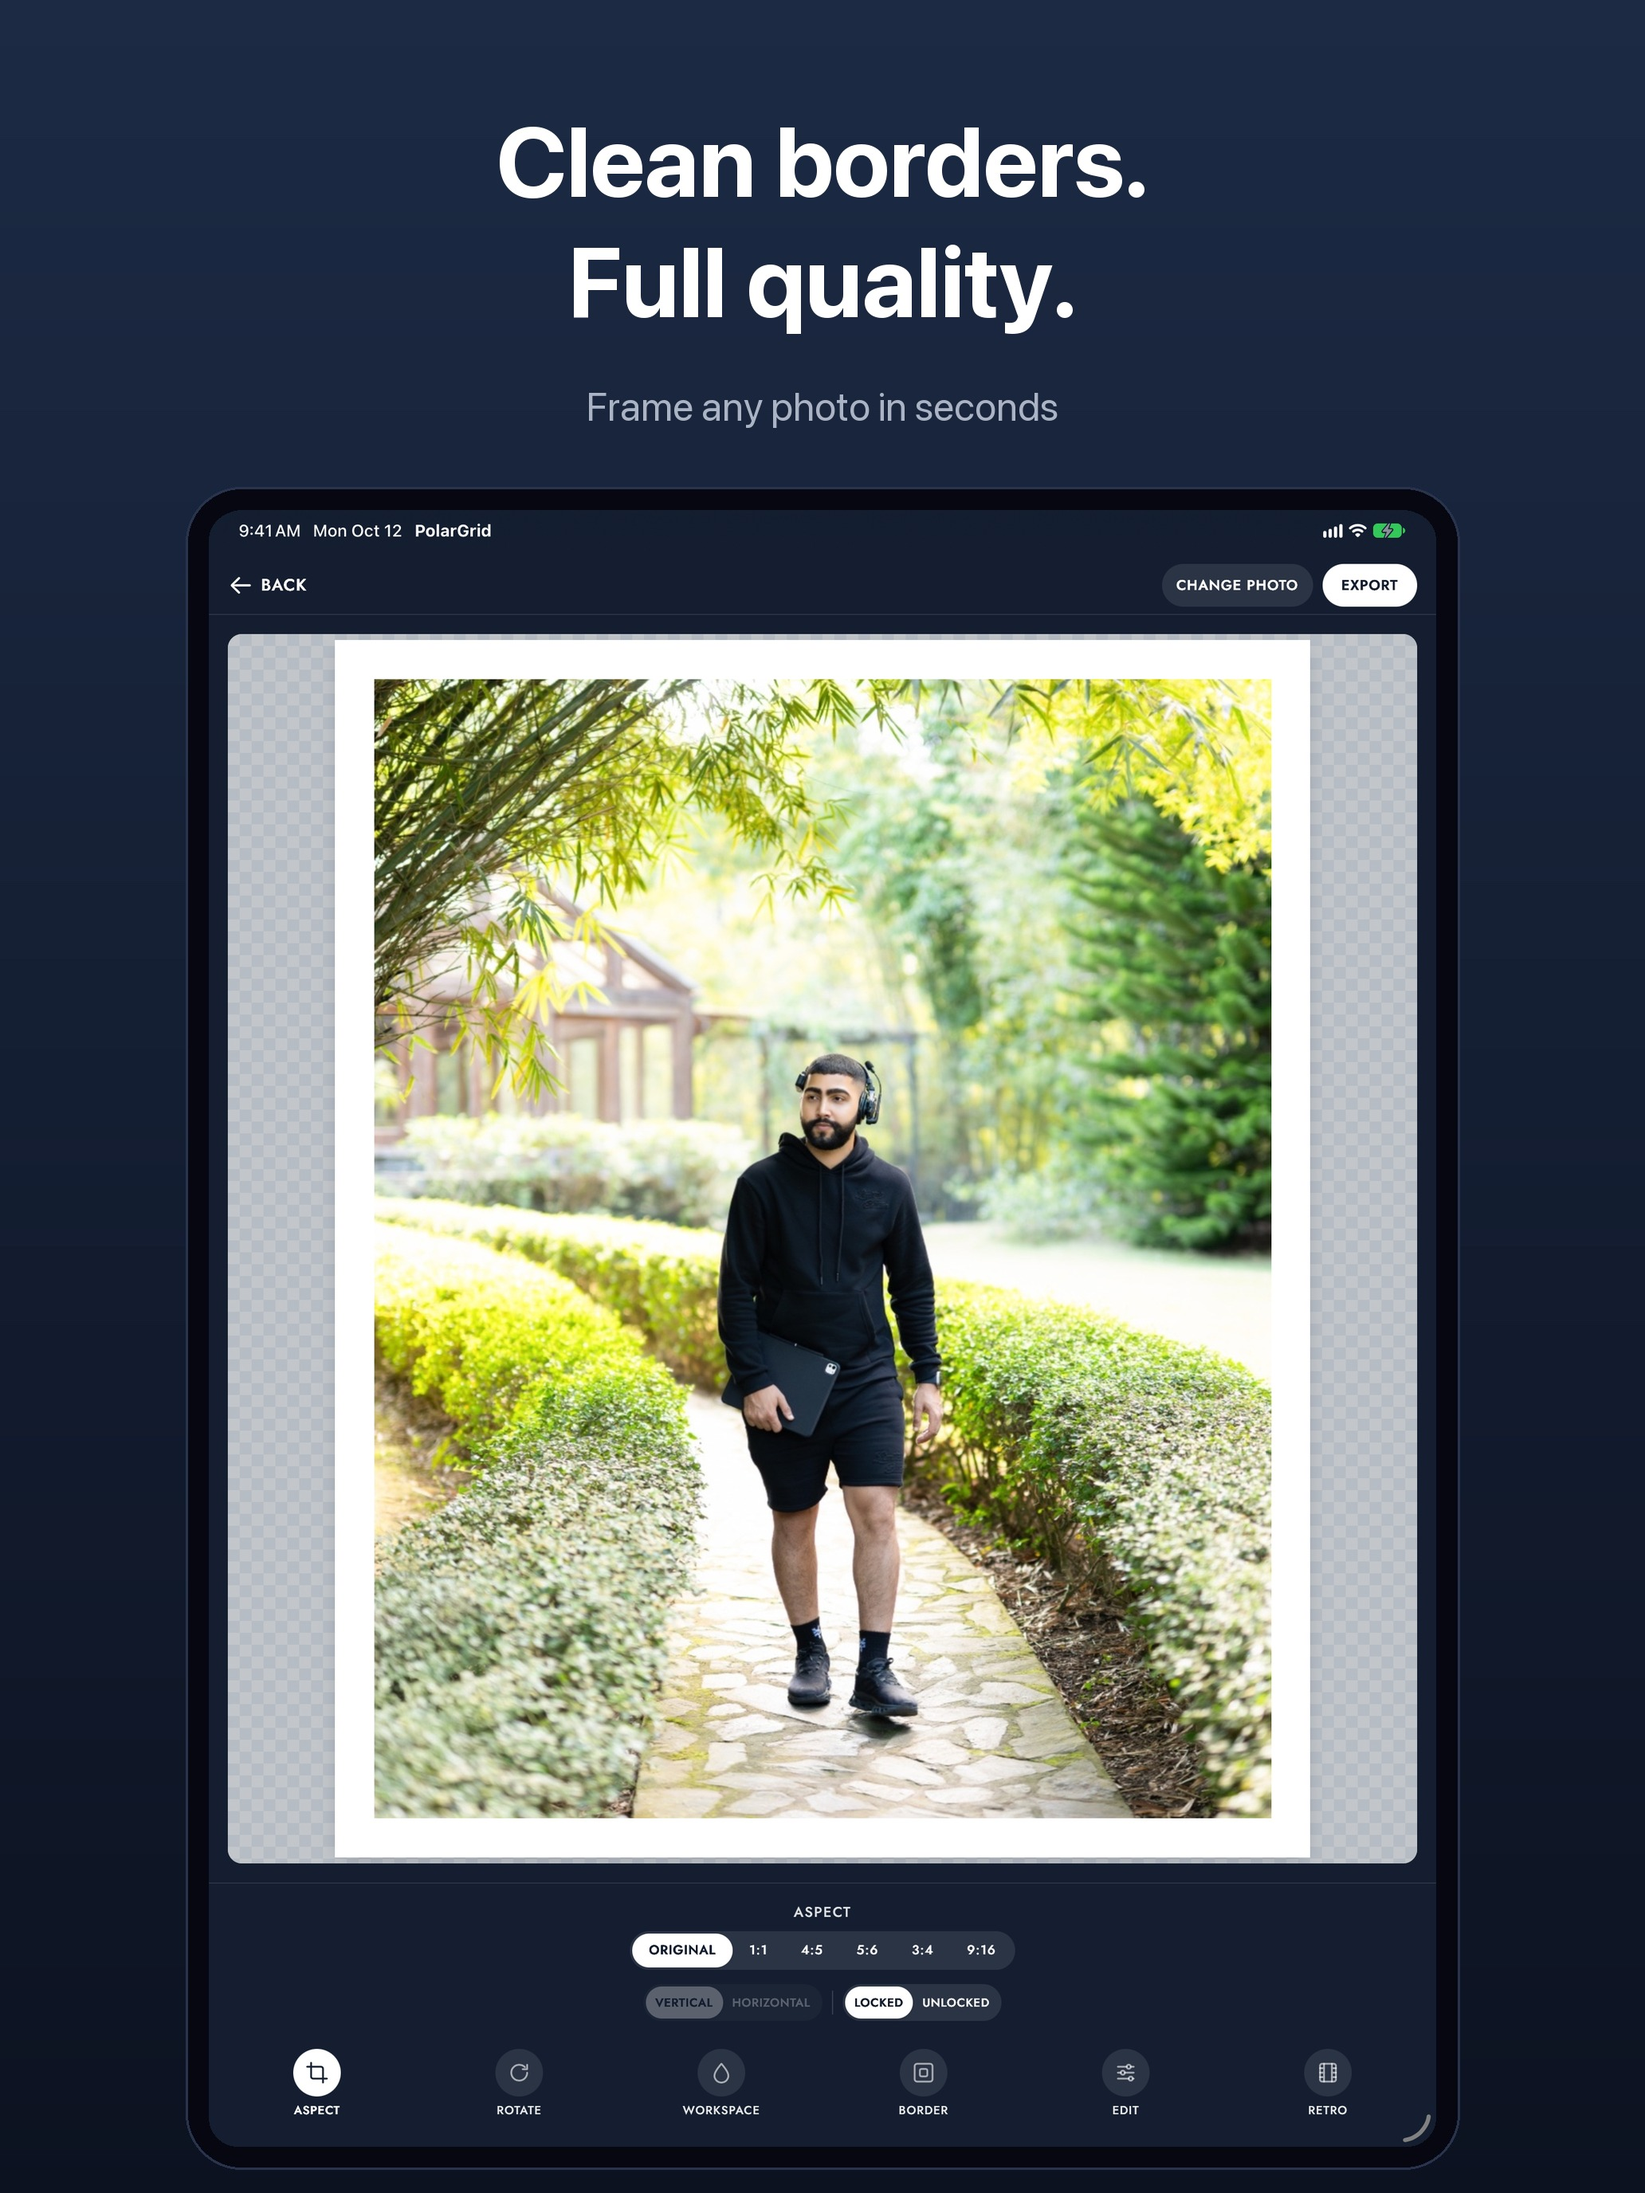
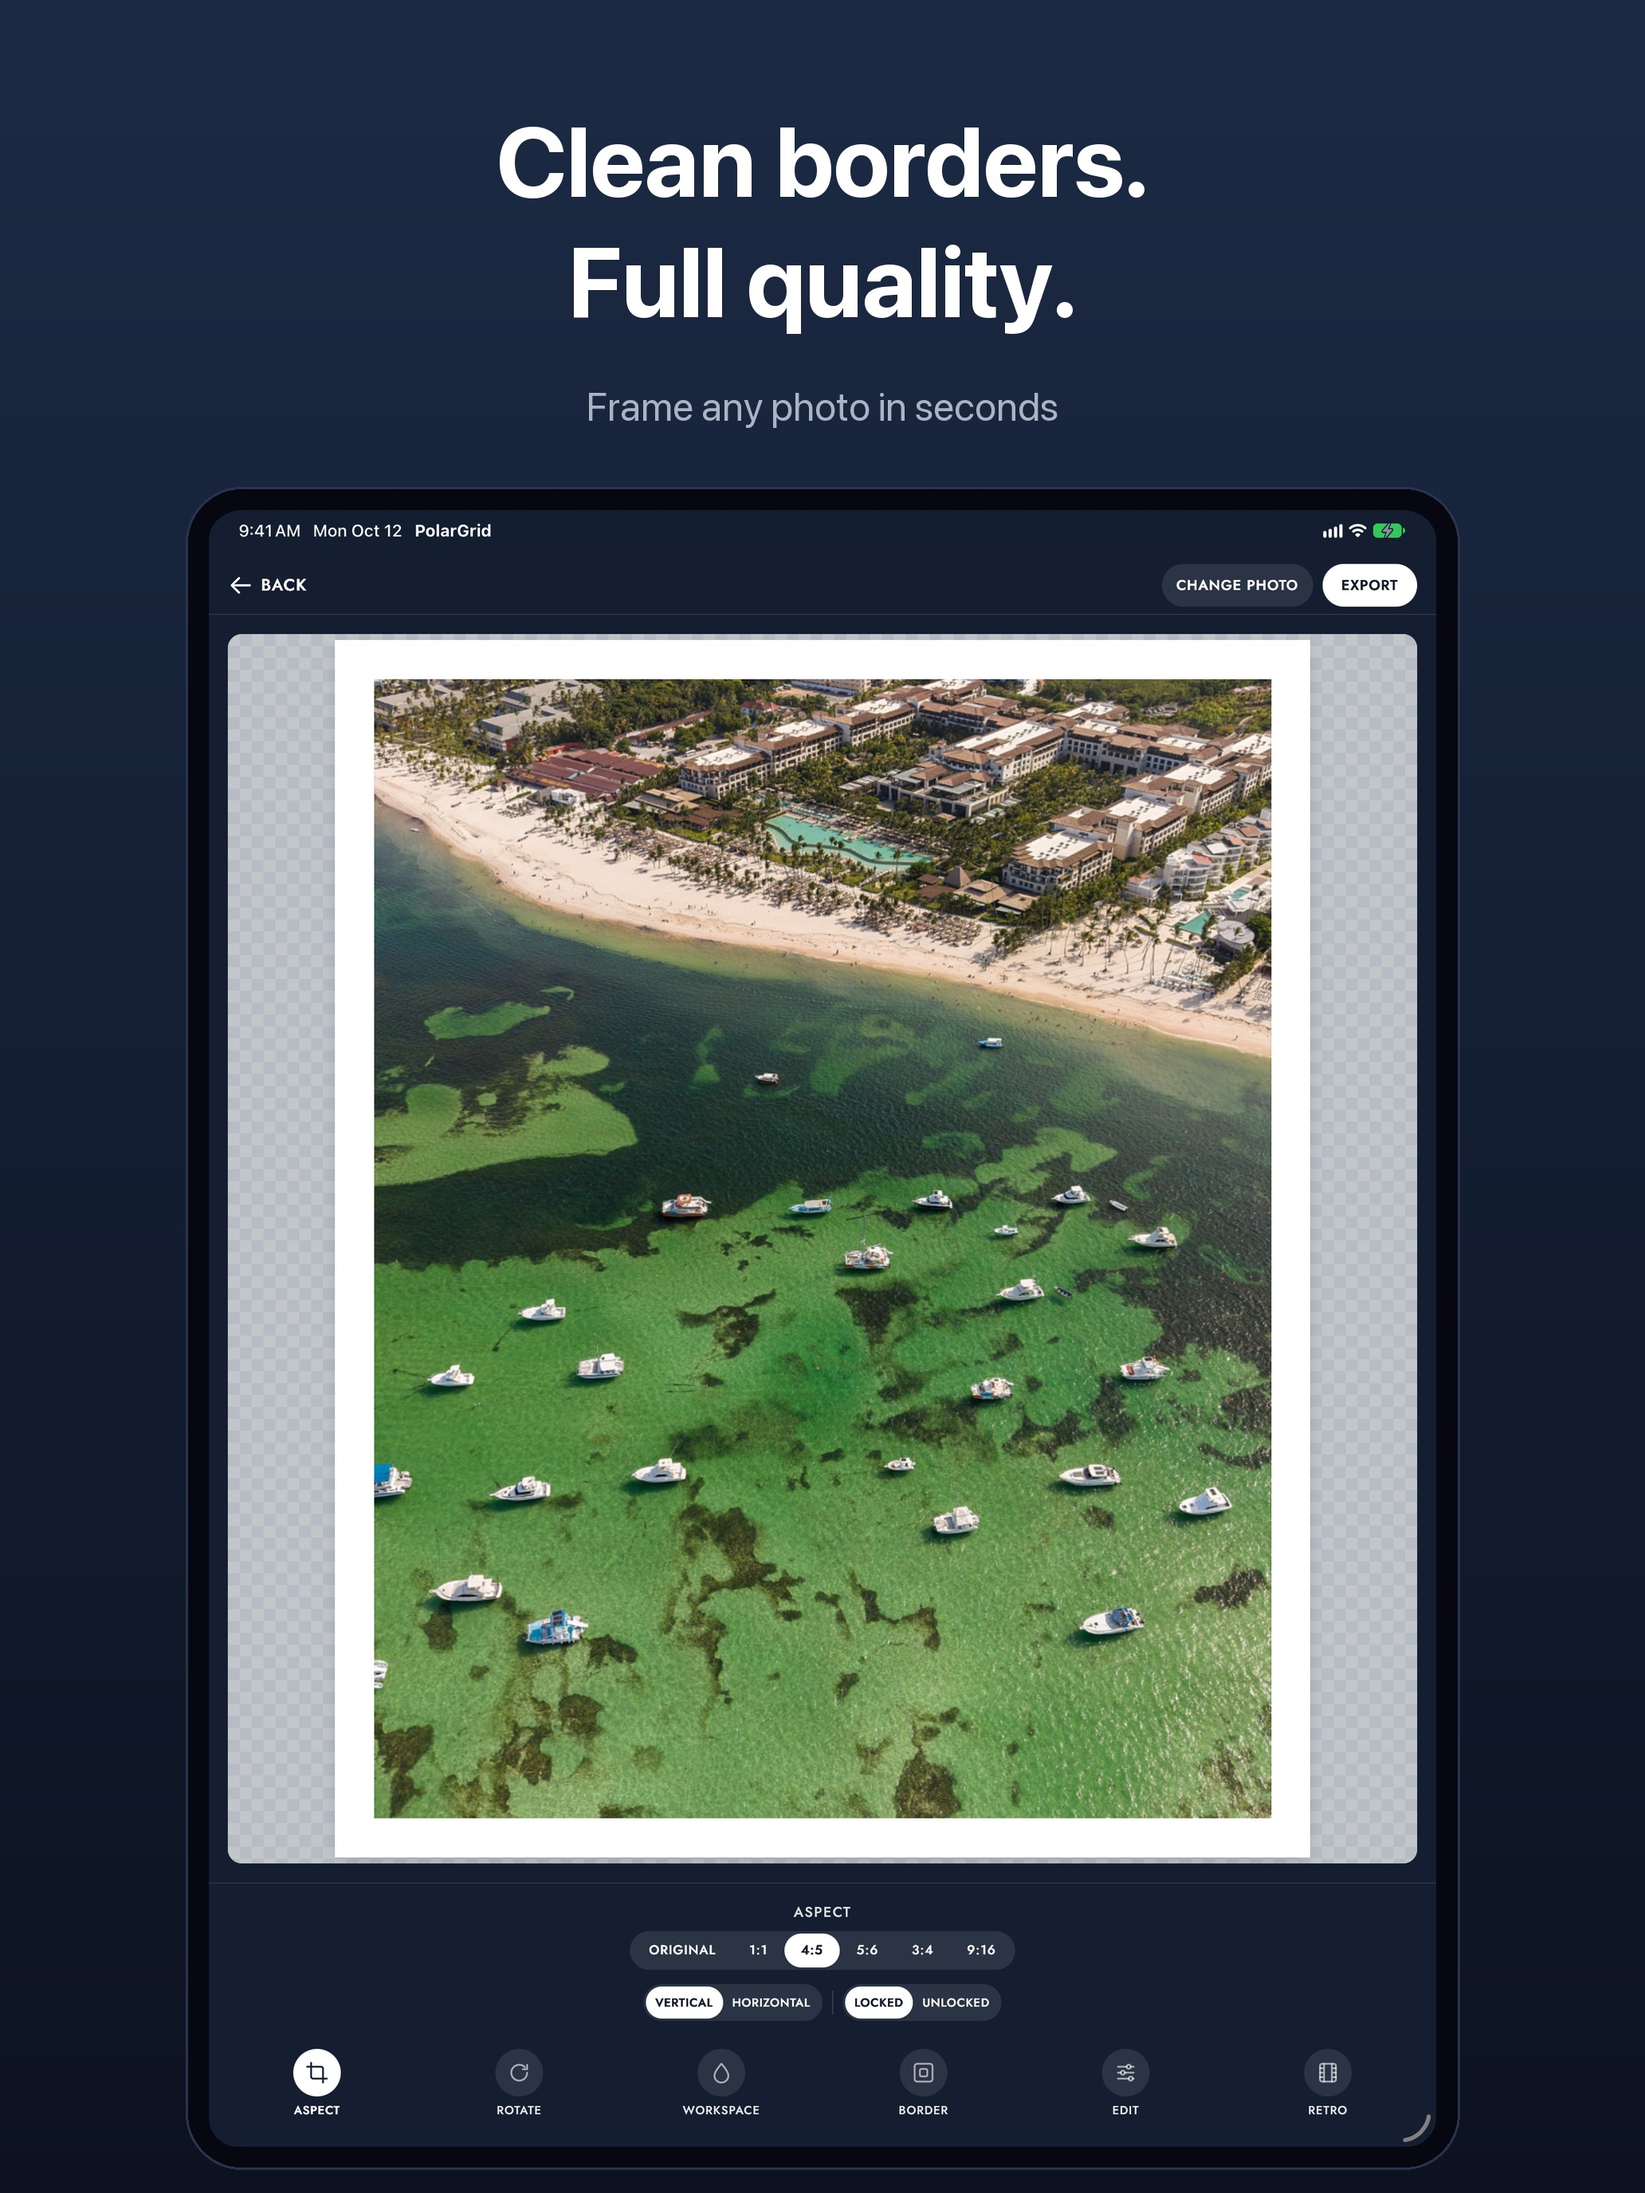
Tour and store screenshots use the developer's own landscape photos
Aerial and coastal shots (resort, island, cliff, waves, bay, sandbar)
replace the portraits, so the app reads as being for any kind of photo.
The resort frames 4:5 in the border screenshots and the finished-Story
screenshot keeps the photo's own shape, as the app does.

Changed region(s): [[0.2171, 0.3125, 0.7752, 0.8438], [0.3721, 0.875, 0.5271, 0.9375]]

diff --git a/src/components/WelcomeTour.tsx b/src/components/WelcomeTour.tsx
@@ -26,9 +26,9 @@ function Print({ name, className = '', style, pad = '5%' }: { name: string; clas
 /** Logo over a fan of prints that drift gently. */
 function WelcomeArt() {
   const prints = [
-    { name: 'evening', rotate: -14, x: '-58%', delay: '0s' },
-    { name: 'decor-hall', rotate: 13, x: '58%', delay: '-1.6s' },
-    { name: 'garden', rotate: -2, x: '0%', delay: '-0.8s' },
+    { name: 'island', rotate: -14, x: '-58%', delay: '0s' },
+    { name: 'cliff', rotate: 13, x: '58%', delay: '-1.6s' },
+    { name: 'resort', rotate: -2, x: '0%', delay: '-0.8s' },
   ]
   return (
     <div className="relative flex h-full w-full items-center justify-center">
@@ -51,7 +51,7 @@ function BorderArt() {
     <div className="flex h-full w-full flex-col items-center justify-center gap-4">
       <div className="tour-breathe aspect-[4/5] w-[62%] bg-white shadow-2xl shadow-black/50">
         <div className="h-full w-full overflow-hidden">
-          <Img name="garden" />
+          <Img name="resort" />
         </div>
       </div>
       <div className="flex gap-1.5">
@@ -81,10 +81,10 @@ function CollageArt() {
           <Img name="decor-lamps" />
         </div>
         <div className={cell} style={{ animationDelay: '0.24s' }}>
-          <Img name="decor-fountain" />
+          <Img name="bay" />
         </div>
         <div className={`${cell} col-span-2`} style={{ animationDelay: '0.36s' }}>
-          <Img name="decor-table" />
+          <Img name="sandbar" />
         </div>
       </div>
     </div>
@@ -160,7 +160,7 @@ function DetailArt() {
 /** The same photo in three Retro styles, fanned out like prints on a table. */
 function RetroArt() {
   const looks = [
-    { name: 'retro-retrato', rotate: -12, x: '-62%' },
+    { name: 'retro-atardecer', rotate: -12, x: '-62%' },
     { name: 'retro-cruzado', rotate: 12, x: '62%' },
     { name: 'retro-plata', rotate: 0, x: '0%' },
   ]
@@ -197,7 +197,7 @@ function StoryArt() {
               className={`flex aspect-[9/16] w-full items-center justify-center rounded-lg ${withBg ? 'shadow-2xl shadow-black/50 ring-1 ring-white/10' : ''}`}
               style={withBg ? { backgroundColor: SKY } : undefined}
             >
-              <Print name="garden" pad="4%" className="aspect-[4/5] w-[91%]" />
+              <Print name="island" pad="4%" className="aspect-[4/5] w-[91%]" />
             </div>
             <span
               className={`font-label rounded-full px-2.5 py-1 text-[10px] font-semibold uppercase tracking-wide ${
@@ -227,7 +227,7 @@ function ExportArt() {
   const tr = useTranslation()
   return (
     <div className="flex h-full w-full flex-col items-center justify-center gap-5">
-      <Print name="evening" className="aspect-[4/5] w-[58%]" />
+      <Print name="bay" className="aspect-[4/5] w-[58%]" />
       <div className="flex gap-1.5">
         {[tr.quality.native.label, tr.quality.high.label, tr.quality.web.label].map((q, i) => (
           <span

diff --git a/src/lib/shots.ts b/src/lib/shots.ts
@@ -77,7 +77,7 @@ async function run(scene: (typeof SCENES)[number]) {
   if (scene === 'layouts') {
     (await waitFor(() => homeButton('Collage'))).click()
     await sleep(900)
-    await upload(['decorA0', 'decorA1', 'decorA2', 'decorA3', 'decorA4', 'decorA5'], true)
+    await upload(['decorA0', 'bay', 'decorA1', 'resort', 'decorA3', 'sandbar'], true)
     await tool('Template')
     return
   }
@@ -86,11 +86,14 @@ async function run(scene: (typeof SCENES)[number]) {
   await sleep(900)
 
   if (scene === 'batch') {
-    await upload(['garden2', 'garden', 'evening', 'decorB0'], true)
+    await upload(['resort', 'island', 'cliff', 'bay'], true)
+    await tool('4:5')
     return
   }
 
-  await upload([scene === 'retro' ? 'garden2' : scene === 'border' || scene === 'story' ? 'garden' : 'evening'], false)
+  await upload([{ border: 'resort', edit: 'island', retro: 'cliff', story: 'island' }[scene] ?? 'resort'], false)
+  // The tall resort photo reads best framed 4:5 rather than as-shot.
+  if (scene === 'border') await tool('4:5')
 
   if (scene === 'edit') {
     const id = editor().border.photoId!
@@ -118,7 +121,7 @@ async function run(scene: (typeof SCENES)[number]) {
 
   if (scene === 'retro') {
     await tool('Retro')
-    await tool('Silver 400')
+    await tool('Sunset')
     setRange('Intensity', 0.9)
     return
   }

diff --git a/docs/screenshots/v1.2/compose.py b/docs/screenshots/v1.2/compose.py
@@ -51,38 +51,53 @@ BORDER = 0.04
 
 
 def story_export(photo: Image.Image, width: int) -> Image.Image:
-    """What "Export with this background" makes: the photo cropped 4:5 in a
-    white border, centred on a 9:16 sky-blue canvas with a margin all round —
-    the same geometry as exportImage.ts."""
+    """What "Export with this background" makes from a photo shown as-shot
+    ("Original" aspect): the photo in a white border, centred on a 9:16
+    sky-blue canvas with a margin all round — the same geometry as
+    exportImage.ts."""
     height = round(width * 16 / 9)
     canvas = Image.new('RGB', (width, height), SKY)
-    framed_w = round(width * (1 - 2 * STORY_MARGIN))
-    framed_h = round(framed_w * 5 / 4)
-    border = round(BORDER * framed_w)
-    inner = (framed_w - 2 * border, framed_h - 2 * border)
     src = photo.convert('RGB')
-    scale = max(inner[0] / src.width, inner[1] / src.height)
-    src = src.resize((round(src.width * scale), round(src.height * scale)), Image.LANCZOS)
-    left, top = (src.width - inner[0]) // 2, (src.height - inner[1]) // 2
-    src = src.crop((left, top, left + inner[0], top + inner[1]))
-    framed = Image.new('RGB', (framed_w, framed_h), (255, 255, 255))
-    framed.paste(src, (border, border))
-    canvas.paste(framed, ((width - framed_w) // 2, (height - framed_h) // 2))
+    # The framed photo spans the width less the margin, or the height less
+    # the same margin, whichever is tighter.
+    margin = round(width * STORY_MARGIN)
+    box_w, box_h = width - 2 * margin, height - 2 * margin
+    aspect = src.width / src.height
+    border_share = BORDER  # of the framed photo's short side
+    # Framed size for a given inner photo width.
+    def framed(inner_w: float) -> tuple[float, float]:
+        inner_h = inner_w / aspect
+        b = border_share * min(inner_w, inner_h) / (1 - 2 * border_share)
+        return inner_w + 2 * b, inner_h + 2 * b
+    lo, hi = 1.0, float(box_w)
+    for _ in range(40):
+        mid = (lo + hi) / 2
+        fw, fh = framed(mid)
+        if fw <= box_w and fh <= box_h:
+            lo = mid
+        else:
+            hi = mid
+    inner_w = round(lo)
+    inner_h = round(inner_w / aspect)
+    fw, fh = (round(v) for v in framed(inner_w))
+    framed_img = Image.new('RGB', (fw, fh), (255, 255, 255))
+    framed_img.paste(src.resize((inner_w, inner_h), Image.LANCZOS), ((fw - inner_w) // 2, (fh - inner_h) // 2))
+    canvas.paste(framed_img, ((width - fw) // 2, (height - fh) // 2))
     return canvas
 
 
 def story_screen(spec: dict, photo: Image.Image, img_height: int) -> Image.Image:
-    """The finished Story as it looks opened on the device: full width, on black."""
+    """The finished Story as it looks opened on the device: as large as fits
+    the full screen, centred, on black."""
     left, top, right, bottom = spec['screen']
     w = right - left
     h = (bottom or img_height) - top
-    screen = Image.new('RGB', (w, h), (0, 0, 0))
-    story = story_export(photo, w)
-    # Centred in the device's full screen height, not just the visible part.
     full_h = round(w * (2622 / 1206 if bottom is None else 2752 / 2064))
-    y = max(0, (full_h - story.height) // 2)
-    screen.paste(story, (0, y))
-    return screen
+    story_w = min(w, round(full_h * 9 / 16))
+    story = story_export(photo, story_w)
+    screen = Image.new('RGB', (w, max(h, full_h)), (0, 0, 0))
+    screen.paste(story, ((w - story.width) // 2, max(0, (full_h - story.height) // 2)))
+    return screen.crop((0, 0, w, h))
 
 
 def font(size: int, weight: str) -> ImageFont.FreeTypeFont:
